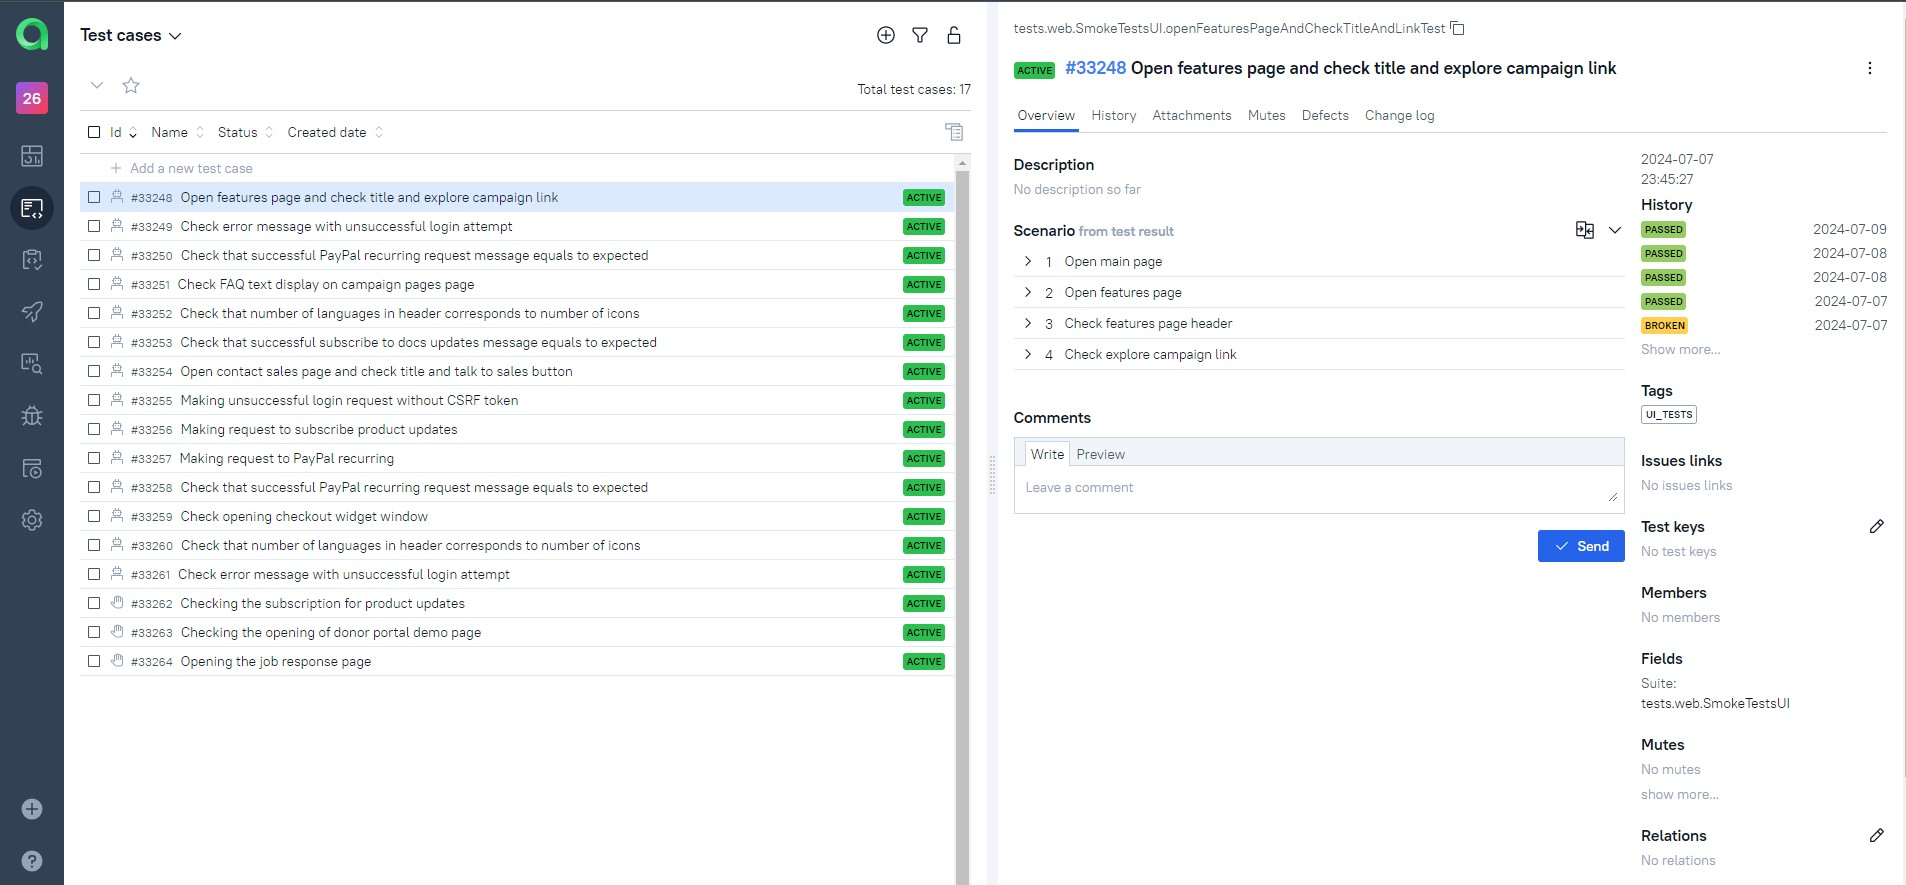
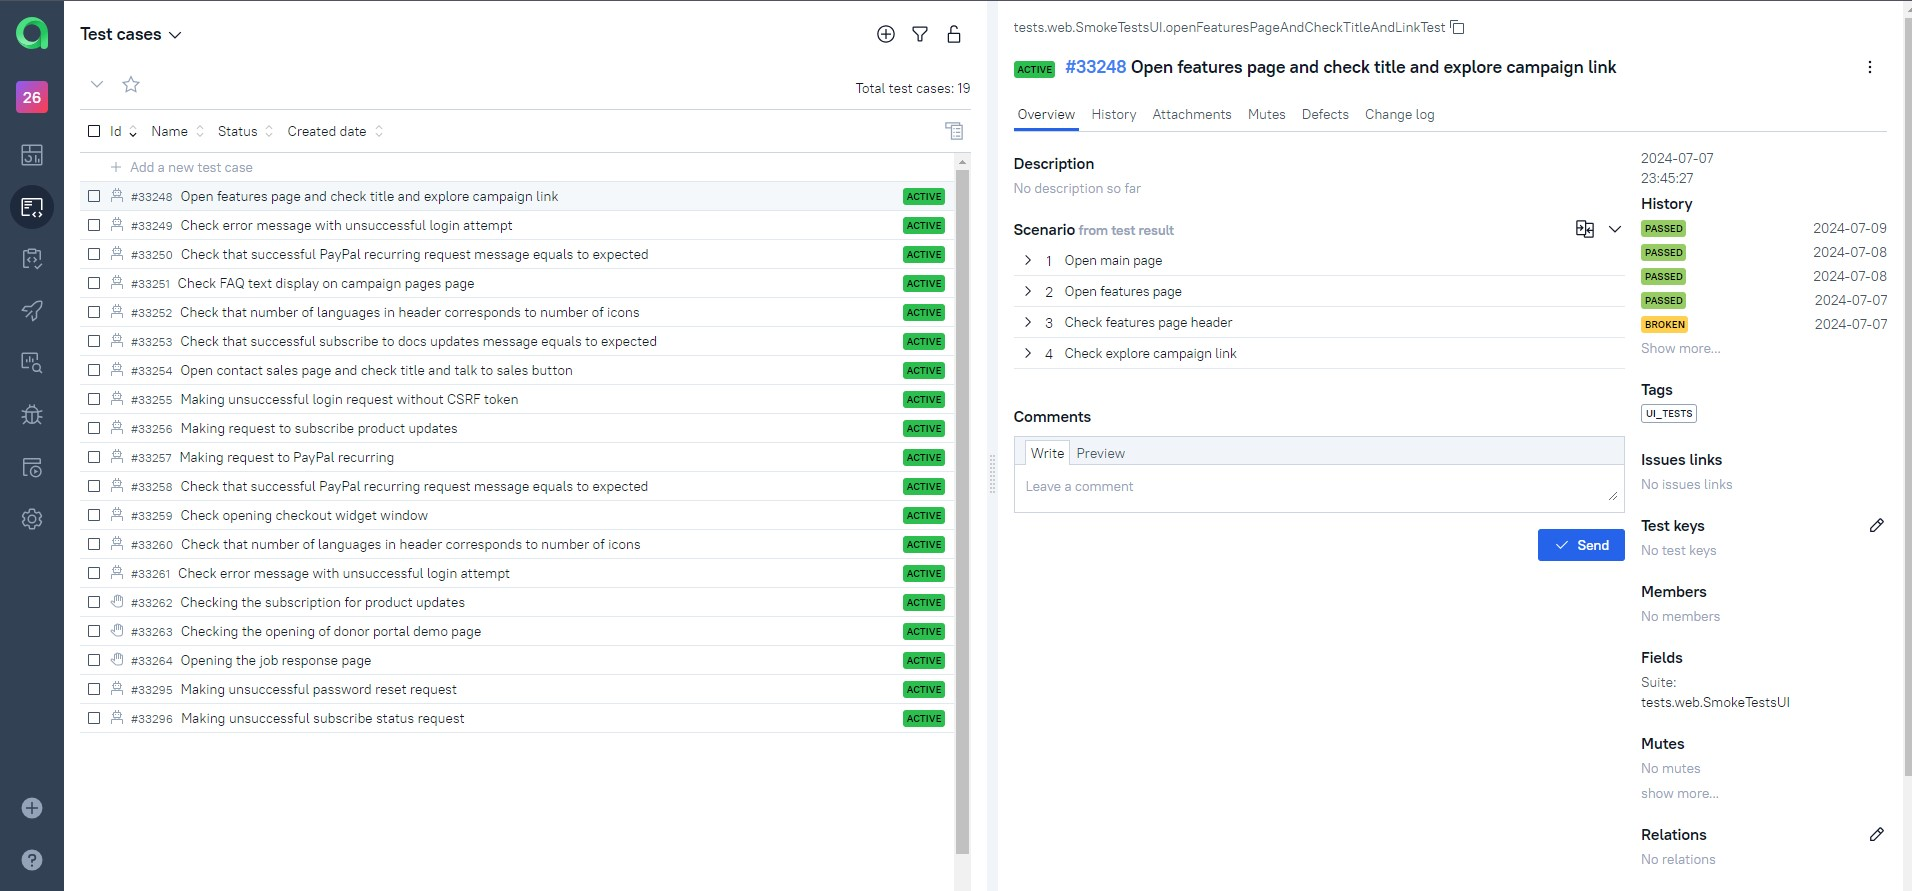
fixed readme

diff --git a/README.md b/README.md
@@ -50,6 +50,8 @@
 * [x] Making unsuccessful login request without CSRF token
 * [x] Making request to subscribe product updates
 * [x] Making request to PayPal recurring
+* [x] Making unsuccessful subscribe status request
+* [x] Making unsuccessful password reset request
 ## Manual
 * [x] Checking the subscription for product updates
 * [x] Checking the opening of donor portal demo page
